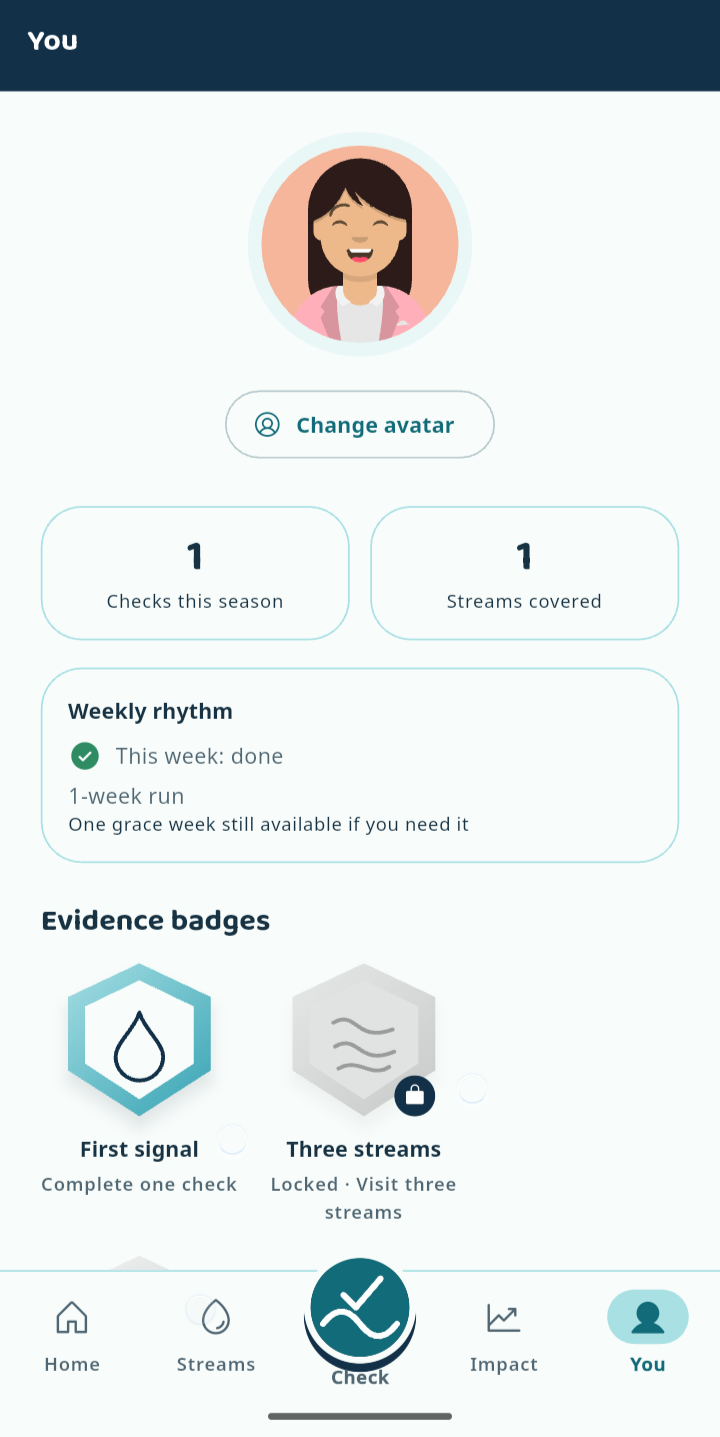
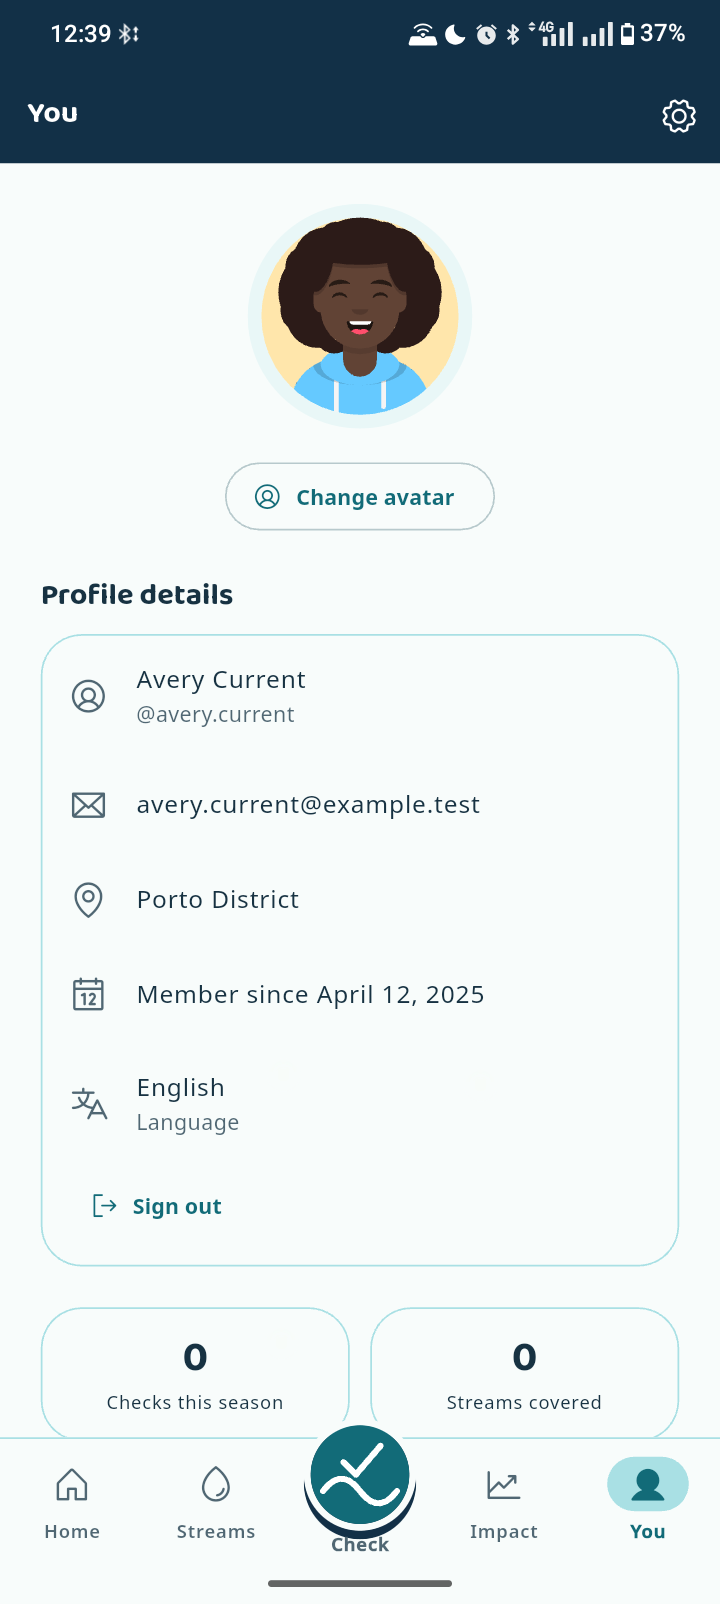
feat(video): switch to the fixed-app screenshots
Use the captain's fixed-app set: the Arabic and Greek profiles for the
language beat, the fictional-account sign-in error (no redaction
needed), the light map without the demo badge, dark picture-answer
questions, overall health and photos, the Your impact page, profile
details and a new gentle-reminders settings beat. Tap-dot removal now
fills the whole ring band and levels the disc on flat backgrounds, which
cleans the dots on dark screens. README stills follow the new shots.

diff --git a/submission/video/scripts/import_new_shots.py b/submission/video/scripts/import_new_shots.py
@@ -3,10 +3,11 @@
 
 The captain's phone screenshots (Android, 720 px wide) are read from
 OAH_CAPTAIN_DIR (default /workspaces/firstmate/data/oah-video/) and written as
-plain RGB PNGs (the phone's eXIf chunk trips ffmpeg). Two edits only: a solid,
-irreversible bar over the account email in the sign-in screenshot, and removal
-of the phone's own "show taps" indicators (translucent grey dots, not app
-content). The six README stills are copied alongside. Run once when new screenshots arrive:
+plain RGB PNGs (the phone's eXIf chunk trips ffmpeg). Two edits only: solid,
+irreversible bars over any real account details (REDACTIONS), and removal of
+the phone's own "show taps" indicators (translucent grey dots, not app
+content). The six README stills are copied alongside. Run once when new
+screenshots arrive:
 
     python3 scripts/import_new_shots.py
 """
@@ -27,21 +28,29 @@ SHOTS = {
     '02c': 'Screenshot_20261005-113058.png',  # onboarding 4: safety reminder
     '02d': 'Screenshot_20261005-113101.png',  # onboarding 5: ready when you are
     '03a': 'Screenshot_20261005-113128.png',  # language picker
-    '04a': 'Screenshot_20261005-113209.png',  # sign-in friendly error (email covered)
-    '04b': 'Screenshot_20261005-113459.png',  # avatar picker
-    '05a': 'Screenshot_20261005-113439.png',  # map with pin preview
+    '03b': 'Screenshot_20261005-124208.png',  # profile in Arabic, right to left
+    '03c': 'Screenshot_20261005-124220.png',  # profile in Greek
+    '04a': 'Screenshot_20261005-123905.png',  # sign-in friendly error (fictional account)
+    '04b': 'Screenshot_20261005-123922.png',  # avatar picker
+    '05a': 'Screenshot_20261005-124121.png',  # home map
     '05b': 'IMG_20261005_113304.png',         # which stream?
-    '06a': 'Screenshot_20261005-113336.png',  # dams: Yes / No / I'm not sure
-    '06b': 'Screenshot_20261005-113340.png',  # water height
-    '08a': 'Screenshot_20261005-113344.png',  # overall health
-    '09a': 'Screenshot_20261005-113353.png',  # photograph the stream
+    '06a': 'Screenshot_20261005-124432.png',  # channel form, picture answers (dark)
+    '06b': 'Screenshot_20261005-124434.png',  # bottom of the channel, picture answers
+    '06c': 'Screenshot_20261005-124437.png',  # banks, picture answers
+    '06d': 'Screenshot_20261005-124441.png',  # pipes: Yes / No / I'm not sure
+    '08a': 'Screenshot_20261005-124446.png',  # overall health (dark)
+    '09a': 'Screenshot_20261005-124515.png',  # photograph the stream (dark)
+    '09r': 'Screenshot_20261005-113353.png',  # photograph the stream (light, README still)
     '11a': 'Screenshot_20261005-113425.png',  # stream check submitted
-    '13a': 'IMG_20261005_113239.png',         # profile: rhythm and badges
+    '11b': 'Screenshot_20261005-124141.png',  # your impact
+    '13a': 'Screenshot_20261005-123949.png',  # profile details, signed in
+    '13b': 'Screenshot_20261005-124114.png',  # profile as guest: rhythm and badges
+    '14a': 'Screenshot_20261005-124117.png',  # settings: reminders, read-aloud, data mode
 }
 
-# Solid bars in source pixels: the "Username or email" value on the sign-in screen.
-REDACTIONS = {
-    '04a': [(120, 1014, 560, 1064)],
+# Solid bars in source pixels over any real account details.
+REDACTIONS: dict[str, list[tuple[int, int, int, int]]] = {
+    # None needed: the sign-in error (04a) uses a fictional account.
 }
 
 # Android "show taps" dots in source pixels: (x, y) is an approximate centre
@@ -53,16 +62,24 @@ TAP_DOTS = {
     '02c': [(296, 1095), (561, 1096), (284, 1325)],
     '02d': [(339, 1203), (600, 1161), (274, 1414, 0.9)],
     '03a': [(320, 1452), (538, 1472), (235, 1603, 0.9)],
-    '04a': [(292, 1163), (500, 1188), (215, 1397)],
-    '04b': [(354, 1154), (579, 1168), (225, 1404)],
-    '05a': [(467, 956), (217, 1067), (176, 1289)],
+    '03b': [(331, 1190), (251, 1432), (541, 1206)],
+    '03c': [(326, 996), (521, 998), (264, 1251)],
+    '04a': [(310, 1495), (617, 1209), (368, 1249, 1.0)],
+    '04b': [(446, 1162), (220, 1222), (209, 1469)],
+    '05a': [(499, 1108), (300, 1124), (281, 1379)],
     '05b': [(251, 1117), (514, 1102), (171, 1357)],
-    '06a': [(262, 1138), (484, 1165), (188, 1365)],
-    '06b': [(295, 1326), (530, 1251), (203, 1388)],
-    '08a': [(290, 1329), (535, 1433, 0.5), (166, 1478, 0.35)],
-    '09a': [(384, 973), (611, 1004), (272, 1218)],
+    '06a': [(463, 1093), (224, 1135), (171, 1436)],
+    '06b': [(273, 1007), (226, 1269)],
+    '06c': [(594, 1054), (389, 1092), (361, 1349)],
+    '06d': [(161, 1549), (437, 1144), (224, 1184)],
+    '08a': [(292, 1475), (258, 1262), (480, 1102)],
+    '09a': [(635, 1170), (369, 1211), (338, 1448)],
+    '09r': [(384, 973), (611, 1004), (272, 1218)],
     '11a': [(295, 1060, 1.0), (490, 1081), (233, 1306)],
-    '13a': [(232, 1140), (472, 1089), (200, 1310)],
+    '11b': [(544, 1101), (304, 1099), (282, 1295)],
+    '13a': [(283, 1074), (480, 1084), (281, 1342)],
+    '13b': [(568, 1222), (350, 1234), (360, 1460)],
+    '14a': [(502, 1087), (311, 1122), (307, 1360)],
 }
 # The indicator itself, measured from these screenshots (a white-background and a
 # teal-button dot at full strength): RGB = overlay colour, A = its opacity.
@@ -126,6 +143,13 @@ def remove_tap_dot(a: np.ndarray, x0: int, y0: int, fade: float | None = None) -
     if fade is None:
         fade = min(np.arange(0.02, 1.0001, 0.01), key=lambda f: _leftover(*_unblend(a[region], alpha, premultiplied, f), radius))
     clean, opaque = _unblend(a[region], alpha, premultiplied, fade)
+    # The ring's soft edges amplify rounding too: treat the whole band as lost.
+    opaque |= (radius >= 12) & (radius <= 16) & (fade * alpha[..., 0] > 0.3)
+    # On a flat background, snap the disc to the surrounding level: rounding in
+    # the sprite, amplified by the fill's opacity, otherwise leaves a faint ghost.
+    inside, around = radius <= 12, (alpha[..., 0] < 0.002) & (radius <= R)
+    if around.sum() > 20 and clean[around].std(axis=0).max() < 3 and clean[inside].std(axis=0).max() < 4:
+        clean[inside] += np.median(clean[around], axis=0) - np.median(clean[inside], axis=0)
     if opaque.any():
         clean[opaque] = np.median(clean[~opaque], axis=0)
         for _ in range(80):
@@ -139,8 +163,8 @@ README_STILLS = {
     '01-onboarding-purpose.png': '01a',
     '02-home-map.png': '05a',
     '03-field-question.png': '06a',
-    '04-evidence-checks.png': '09a',
-    '05-review.png': '11a',  # no review screenshot exists; the submitted screen is the closest
+    '04-evidence-checks.png': '09r',
+    '05-review.png': '11b',  # no review screenshot exists; "Your impact" is the closest
     '06-profile-impact.png': '13a',
 }
 

diff --git a/submission/video/script.md b/submission/video/script.md
@@ -2,7 +2,7 @@
 
 Narration is Ripple's voice (Piper `en_GB-alba-medium`, the app's own read-aloud voice). The source of truth is `src/scenes.json`: `captionText` is what appears on screen and in `captions.srt`, and `piperText` is what Piper reads (respelled where needed, for example "One Aqua Health" and "Git Hub"). "Now" shots are the captain's screenshots in `screens/new/` (mapping in `scripts/import_new_shots.py`). Timings below come from the current narration and change when it is regenerated.
 
-The comparison beats follow the journey order but only cover screens the captain captured: splash, Arabic, glossary sheet, feelings sliders, retake hint, review, impact receipt, offline queue, reminders and the site timeline have no screenshot yet, so the narration does not mention them.
+The comparison beats follow the journey order but only cover screens the captain captured: splash, glossary sheet, feelings sliders, retake hint, review with completeness, offline queue and the site timeline have no screenshot, so the narration does not mention them. The questions, overall-health and photo beats use the dark theme, the only one with picture answers in the captured set.
 
 | Time | Scene | On screen | Narration |
 |---|---|---|---|
@@ -10,18 +10,19 @@ The comparison beats follow the journey order but only cover screens the captain
 | 0:09 | `about-streams` | **City streams tell a bigger story** | Streams that run through our cities tell us about the health of the water, the wildlife, and the people around them. |
 | 0:18 | `about-one-health` | **One Health** | This is the idea of One Health. Ecosystem, animal and human health are linked. |
 | 0:26 | `about-citizens` | **Citizens can help** | OneAquaHealth researchers need eyes on hundreds of urban streams, and citizens can help. Their checks reach researchers and support early warning. |
-| 0:36 | `about-rebuilt` | **Rebuilt for the water's edge** | But the original app felt like a form built for scientists. So we rebuilt it around the person standing at the water's edge. |
-| 0:45 | `shot-01-welcome` | **From a loading screen to a friendly welcome**. Before: old #1, #2, #3. Now: 01a | Before, a logo and a loading screen. Now, Ripple welcomes you, and shows that your stream is part of city health. |
-| 0:55 | `shot-02-onboarding` | **Know why it matters before you start**. Before: old "Nothing before" card. Now: 02a, 02b, 02c, 02d (zoom on 02c) | Five short screens explain why your check matters, with a safety reminder before you go. Tap Listen, and Ripple reads each one aloud in a natural voice. |
-| 1:10 | `shot-03-language` | **Your language, labelled honestly**. Before: old #5. Now: 03a (zoom on 03a) | Choose from eighteen languages. Each one says honestly when its translation still awaits human review. |
-| 1:21 | `shot-04-sign-in` | **Errors people can understand**. Before: old #22, #21, #23. Now: 04a, 04b (drag-to-compare wipe first) (zoom on 04a) | Before, a raw error code. Now, a message anyone understands. Then pick an avatar that represents you and protects your identity. |
-| 1:37 | `shot-05-map` | **Streams by name, on a water-first map**. Before: old #6, #7, #8. Now: 05a, 05b (zoom on 05a) | Streams appear on a water-first map. Tap a pin to see the stream's name, then choose a nearby stream to check. |
-| 1:50 | `shot-06-questions` | **One question at a time**. Before: old #10, #11, #12. Now: 06a, 06b (drag-to-compare wipe first) (zoom on 06a) | Questions come one at a time, each with a Listen button. And it's fine to say: I'm not sure. |
-| 2:06 | `shot-08-health` | **Clear choices, in plain words**. Before: old #13, #14. Now: 08a | Rate the stream's overall health. Each choice has an icon and a plain description. |
-| 2:16 | `shot-09-camera` | **Photos with guidance**. Before: old #9. Now: 09a (drag-to-compare wipe first) (zoom on 09a) | Photos are optional. Each view says what to capture. Take a photo, or choose one from the gallery. |
-| 2:30 | `shot-11-submitted` | **Know what your check achieved**. Before: old "No feedback after submit" card. Now: 11a (zoom on 11a) | After you submit, Ripple celebrates, and explains how researchers use your evidence. |
-| 2:41 | `shot-13-profile` | **Your contribution, made visible**. Before: old #20, #19, #17, #18. Now: 13a (zoom on 13a) | Your profile shows your weekly rhythm and evidence badges. No leaderboards, no pressure. |
-| 2:53 | `closing` | **Same science. A much kinder way to take part.** | Same science. A much kinder way to take part. OneAquaHealth Citizen Science: eighteen languages, read aloud, one friendly step at a time. |
-| 3:06 | `end` | Logo, GitHub link, credits | Explore the code on GitHub. |
+| 0:37 | `about-rebuilt` | **Rebuilt for the water's edge** | But the original app felt like a form built for scientists. So we rebuilt it around the person standing at the water's edge. |
+| 0:46 | `shot-01-welcome` | **From a loading screen to a friendly welcome**. Before: old #1, #2, #3. Now: 01a | Before, a logo and a loading screen. Now, Ripple welcomes you, and shows that your stream is part of city health. |
+| 0:56 | `shot-02-onboarding` | **Know why it matters before you start**. Before: old "Nothing before" card. Now: 02a, 02b, 02c, 02d (zoom on 02c) | Five short screens explain why your check matters, with a safety reminder before you go. Tap Listen, and Ripple reads each one aloud in a natural voice. |
+| 1:11 | `shot-03-language` | **Your language, right to left included**. Before: old #5. Now: 03a, 03b, 03c (zoom on 03b) | Choose from eighteen languages, each honestly labelled while it awaits human review. Arabic reads right to left. |
+| 1:24 | `shot-04-sign-in` | **Errors people can understand**. Before: old #22, #21, #23. Now: 04a, 04b (drag-to-compare wipe first) (zoom on 04a) | Before, a raw error code. Now, a message anyone understands. Then pick an avatar that represents you and protects your identity. |
+| 1:40 | `shot-05-map` | **Streams by name, on a water-first map**. Before: old #6, #7, #8. Now: 05a, 05b (zoom on 05a) | Streams appear on a water-first map, with a filter for the ones that need data. Then choose a nearby stream by name. |
+| 1:53 | `shot-06-questions` | **One question at a time, with pictures**. Before: old #10, #11, #12. Now: 06a, 06b, 06c, 06d (drag-to-compare wipe first) (zoom on 06a) | Questions come one at a time, with picture answers and a Listen button. And it's fine to say: I'm not sure. |
+| 2:11 | `shot-08-health` | **Clear choices, in plain words**. Before: old #13, #14. Now: 08a | Rate the stream's overall health. Each choice has an icon and a plain description. |
+| 2:21 | `shot-09-camera` | **Photos with guidance**. Before: old #9. Now: 09a (drag-to-compare wipe first) (zoom on 09a) | Photos are optional. Each view says what to capture. Take a photo, or choose one from the gallery. |
+| 2:35 | `shot-11-submitted` | **Know what your check achieved**. Before: old "No feedback after submit" card. Now: 11a, 11b (zoom on 11b) | After you submit, Ripple celebrates and explains how researchers use your evidence. Your impact page counts every check. |
+| 2:48 | `shot-13-profile` | **Your contribution, made visible**. Before: old #20, #19, #17, #18. Now: 13a, 13b (zoom on 13b) | Your profile shows your details, your weekly rhythm and evidence badges. No leaderboards, no pressure. |
+| 3:01 | `shot-14-settings` | **Gentle reminders, never streak pressure**. Before: old "Nothing before" card. Now: 14a (zoom on 14a) | In Settings, gentle reminders nudge you about a stream you haven't checked in a while, at most once a week. |
+| 3:11 | `closing` | **Same science. A much kinder way to take part.** | Same science. A much kinder way to take part. OneAquaHealth Citizen Science: eighteen languages, read aloud, one friendly step at a time. |
+| 3:24 | `end` | Logo, GitHub link, credits | Explore the code on GitHub. |
 
-Total: 3:15.
+Total: 3:33.

diff --git a/submission/video/README.md b/submission/video/README.md
@@ -1,6 +1,6 @@
 # OneAquaHealth demo video
 
-The hackathon demo video (about 3:15, 1920x1080, 30 fps), made in code with
+The hackathon demo video (about 3:33, 1920x1080, 30 fps), made in code with
 [Remotion](https://www.remotion.dev). White background throughout, Ripple's
 Piper voice, burned-in captions, and "Before" (old app) vs "Now" (new app)
 phone frames side by side. The scene-by-scene script is in
@@ -51,14 +51,14 @@ The shot-to-file mapping lives in one place, `SHOTS` in
 
 1. Point `SHOTS` at the new files (`OAH_CAPTAIN_DIR` sets the source folder,
    default `/workspaces/firstmate/data/oah-video/`).
-2. Update `REDACTIONS` (the sign-in email box) and `TAP_DOTS` for the new
-   images, or empty `TAP_DOTS` if "show taps" was off.
+2. Update `REDACTIONS` (any real account details) and `TAP_DOTS` for the
+   new images, or empty `TAP_DOTS` if "show taps" was off.
 3. `python3 scripts/import_new_shots.py` (needs Pillow and NumPy), then
    `npm run render`. Adjust `now`, `zoom` and the narration in
    `src/scenes.json` if a scene gains or loses a screen.
 
-The import makes only two edits: the email bar on `04a`, and removal of
-Android's "show taps" dots (the phone's touch indicator, not app content).
+The import makes only two edits: bars over any real account details (none
+in the current set), and removal of Android's "show taps" dots (the phone's touch indicator, not app content).
 A dot is removed by inverting its alpha blend with the indicator sprite
 measured from these screenshots (`scripts/tap-dot-sprite.png`); its thin,
 nearly opaque ring is filled in from the pixels around it. It also writes the
@@ -68,23 +68,30 @@ six README stills (`screens/01-onboarding-purpose.png` ...).
 |---|---|---|
 | Welcome | 01a first onboarding screen (no splash shot) | 1, 2, 3 |
 | Onboarding | 02a-02d onboarding 2-5, with Listen and the safety reminder | none |
-| Language | 03a language picker | 5 |
-| Sign-in | 04a friendly error (wipe and zoom), 04b avatar picker | 22, 21, 23 |
-| Map | 05a map with pin preview, 05b "Which stream?" | 6, 7, 8 |
-| Questions | 06a Yes / No / I'm not sure (wipe), 06b water height | 10, 11, 12 |
-| Overall health | 08a overall assessment | 13, 14 |
-| Photos | 09a "Photograph the stream" (wipe) | 9 |
-| Submitted | 11a "Stream check submitted" | none |
-| Profile | 13a weekly rhythm and evidence badges | 20, 19, 17, 18 |
+| Language | 03a language picker, 03b profile in Arabic (right to left, zoom), 03c profile in Greek | 5 |
+| Sign-in | 04a friendly error, fictional account (wipe and zoom), 04b avatar picker | 22, 21, 23 |
+| Map | 05a home map (zoom on the filters), 05b "Which stream?" | 6, 7, 8 |
+| Questions (dark theme) | 06a-06c picture answers (wipe on 06a), 06d Yes / No / I'm not sure | 10, 11, 12 |
+| Overall health (dark) | 08a overall assessment | 13, 14 |
+| Photos (dark) | 09a "Photograph the stream" (wipe) | 9 |
+| Submitted | 11a "Stream check submitted", 11b "Your impact" (zoom) | none |
+| Profile | 13a profile details, 13b weekly rhythm and badges (zoom) | 20, 19, 17, 18 |
+| Settings | 14a gentle reminders, read-aloud, data mode | none |
+
+The questions, overall-health and photo screens are only available with
+picture answers in the dark theme, so those three beats run together in dark
+to avoid jumping between themes. `09r` (the light photo screen) is imported
+only for the README still.
 
 ### Redactions
 
 Only login details are hidden, with solid bars burned into the pixels (not a
 reversible blur): the account email on old #17 and #18 and the password field
-on old #23 (`REDACTIONS` in `scripts/prepare-assets.mjs`), and the account
-email in the new sign-in screenshot `04a` (`REDACTIONS` in
-`scripts/import_new_shots.py`, burned into the committed copy). Nothing else
-is blurred or covered.
+on old #23 (`REDACTIONS` in `scripts/prepare-assets.mjs`). The new sign-in
+screenshot uses a fictional account, so `REDACTIONS` in
+`scripts/import_new_shots.py` is empty; add a box there (it is burned into the
+committed copy) if a future screenshot shows real account details. Nothing
+else is blurred or covered.
 
 ### Zoom callouts
 

diff --git a/AGENTS.md b/AGENTS.md
@@ -215,8 +215,9 @@ This file is the project's committed home for project-intrinsic agent knowledge:
 - `submission/video/` is a self-contained Remotion project for the demo video,
   separate from the Flutter app (Node + ffmpeg + Piper, no Flutter). New-app
   screenshots are swapped in through the single `SHOTS` map in its
-  `scripts/import_new_shots.py`, which also burns in the sign-in email
-  redaction; never commit an unredacted screenshot. See its README.
+  `scripts/import_new_shots.py`, which also burns in any account-detail
+  redactions; never commit a screenshot showing real login details. See its
+  README.
 
 ## Maintaining this file
 
